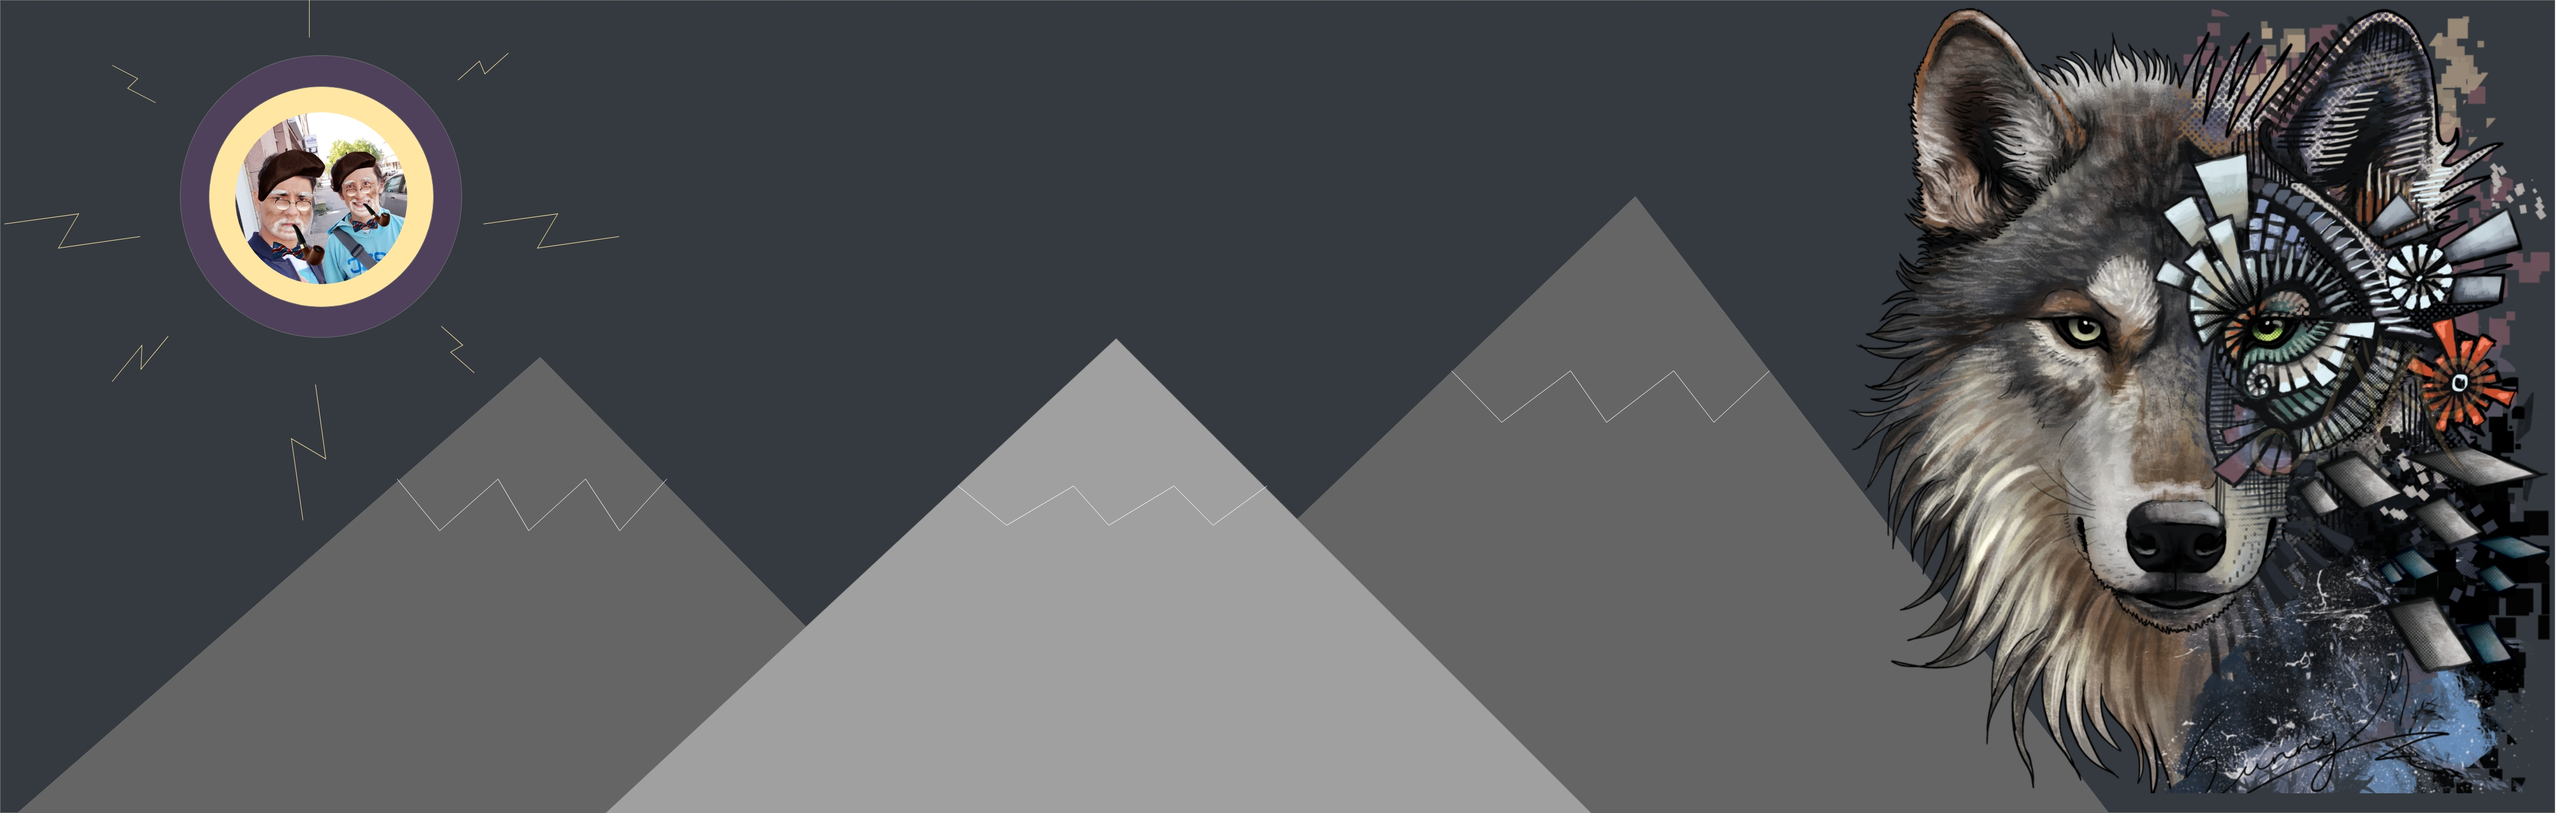
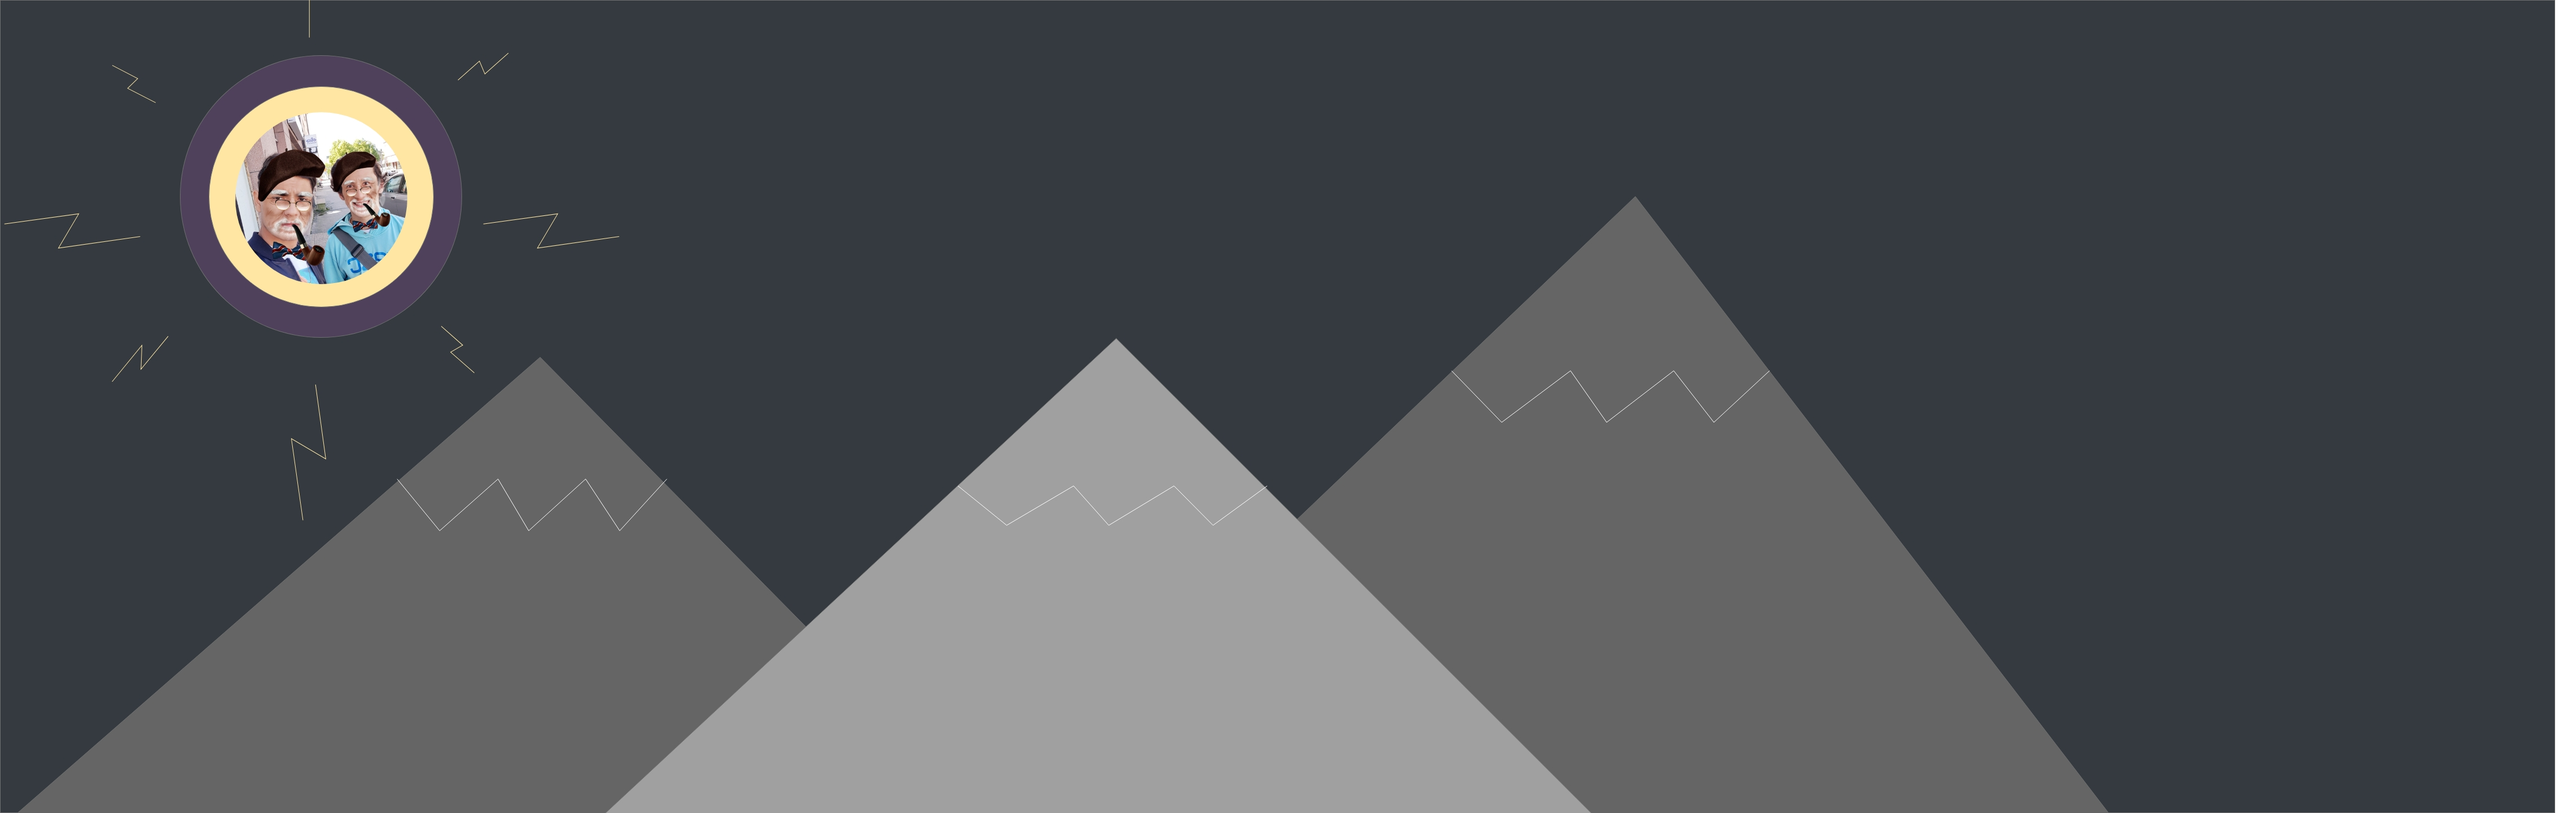
changed the theme

Changed region(s): [[0.7153, 0.0, 0.9952, 0.9986]]

diff --git a/index.html b/index.html
@@ -49,7 +49,7 @@
                                 </a> </li>
                             <li><a href="https://github.com/alirezan223" target="_blank"> <i class="fab fa-github order-2 p-2 bd-highlight"></i>
                                 </a> </li>
-                            <li><a href="#" target="_blank"><i class="fab fa-snapchat-ghost order-3 p-2 bd-highlight"></i>
+                            <li><a href="#" target="_blank"><i class="fas fa-envelope order-3 p-2 bd-highlight"></i>
                                 </a>
                             </li>
 
@@ -90,31 +90,22 @@
 
 
 
-    <header id="welcome-section">
-        <div class="mounten">
+    <div class="mounten">
 
+        <div class="blur">
 
-            <div class="blur">
-                <img src="screen/mount-everest-276995_1920.jpg" width="1580" height="500" alt="mountains">
-            </div>
+            <div class="ali animated slideInLeft"><img src="photo/ali.jpg" alt=""></div>
 
+            <h1 class="olo animated slideInRight"> Hey i'am Ali.</h1>
 
-            <div class="bg-text">
-
-                <div class="ali animated slideInLeft"><img src="photo/ali.jpg" alt=""></div>
-
-
-                <h1 class="olo animated slideInRight"> Hey i'am Ali.</h1>
-
-
-                <p class="animated fadeInUp"> im a web developer </p>
-
-            </div>
+            <p class="animated fadeInUp"> im a junior web developer </p>
 
         </div>
 
+    </div>
 
-    </header>
+
+
 
     <!---------------- line --------------->
 
@@ -178,7 +169,7 @@
     </div>
 
 
-    <!-------------------- carouse ------------------------->
+    <!-------------------- carousel ------------------------->
 
 
 
@@ -194,12 +185,31 @@
             <div class="carousel-inner">
                 <div class="carousel-item active">
                     <img class="d-block w-100" src="screen/Repeat Grid 11.jpg" alt=" First slide">
+
+                    <div class="carousel-caption d-none d-md-block">
+                        <h>About Me</h>
+                        <h2> Hi my name is Ali Najafi Im from Afghanistan but im born in Iran.i'm a first year datanom
+                            student at optima vocational high school im upsest with two things football and coding </h2>
+                    </div>
+
                 </div>
                 <div class="carousel-item">
-                    <img class="d-block w-100" src="screen/Repeat Grid 9.jpg" alt="Second slide">
+                    <img class="d-block w-100" src="screen/Repeat Grid 15.jpg" alt="Second slide">
+
+                    <div class="carousel-caption d-none d-md-block">
+                        <h5>...</h5>
+                        <p>...</p>
+                    </div>
+
                 </div>
                 <div class="carousel-item">
-                    <img class="d-block w-100" src="screen/Repeat Grid 10.jpg" alt="Third slide">
+                    <img class="d-block w-100" src="screen/Repeat Grid 14.jpg" alt="Third slide">
+
+                    <div class="carousel-caption d-none d-md-block">
+                        <h5>...</h5>
+                        <p>...</p>
+                    </div>
+
                 </div>
 
             </div>

diff --git a/style.css b/style.css
@@ -4,6 +4,7 @@ html {
     background-size: cover;
     margin-bottom: 115em;
     scroll-behavior: smooth;
+    background: #111111;
 }
 
 
@@ -81,6 +82,7 @@ html {
 i {
     font-size: 35px;
     text-align: left;
+    color: #220056;
 }
 
 
@@ -107,42 +109,31 @@ p {
 
 
 /* ----- welcome-section --------- */
-.blur img {
-    filter: blur(3px);
-    width: 100%;
-    height: auto;
-
-
-}
-
 .mounten {
-    margin: px;
-
+    width: 100%;
+    height: 700px;
+    background-image: url("screen/evening-55067.png")
 }
 
-.bg-text img {
-    border-radius: 50%;
-    width: 110px;
-    box-shadow: 0 4px 8px 0 rgba(0, 0, 0, 0.2), 0 6px 20px 0 rgba(0, 0, 0, 0.10);
-
-}
-
-.bg-text {
+.blur {
     text-align: center;
     text-decoration: underline;
     font-size: 17px;
     line-height: 0.8;
     font-weight: 400;
     font-style: italic;
-    color: #111111;
+    color: #fff;
     font-weight: bold;
-    position: absolute;
-    top: 39%;
-    left: 50%;
-    transform: translate(-50%, -50%);
-    z-index: 0;
-    width: 100%;
-    padding: 20px;
+    padding-TOP: 15em;
+
+}
+
+
+
+.blur img {
+    border-radius: 50%;
+    width: 110px;
+    box-shadow: 0 4px 8px 0 rgba(0, 0, 0, 0.2), 0 6px 20px 0 rgba(0, 0, 0, 0.10);
 
 
 }
@@ -158,12 +149,10 @@ p {
     font-size: 1em;
     margin: 0;
     padding: 4em;
-}
-
-#blabla {
     text-decoration: underline;
     color: white;
 }
+
 
 /* --------- projects -------- */
 
@@ -181,7 +170,7 @@ p {
 }
 
 .projects {
-    background-image: linear-gradient(#111111, #8B4DFF);
+    background-image: linear-gradient(#111111, #220056);
 
     .container {
         position: relative;
@@ -241,8 +230,8 @@ p {
 
 .containerbox1 {
 
-    border: solid white 50px;
-
+    border-top: solid white 50px;
+    border-bottom: solid white 50px;
 
 }
 
@@ -250,7 +239,7 @@ p {
 
 /* --------------------------------------- contact ---------------------------------- */
 .contact-dontainer {
-    border: solid black 50px;
+    border: solid #111111 50px;
 }
 
 .contact-dontainer img {
